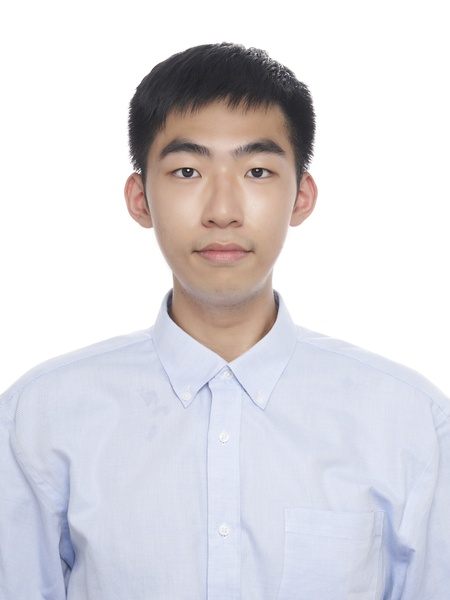
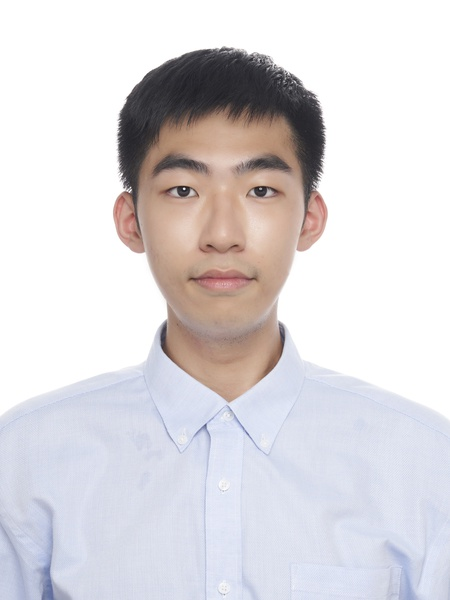
the fourth version

diff --git a/picutre03/picture_modfied.py b/picutre03/picture_modfied.py
@@ -1,11 +1,11 @@
 from PIL import Image
 
 # === 1. 開啟影像 ===
-img = Image.open(r"D:\Users\wedke\document\extra document\大三上\113專題研究之製作\論文人生\紅外線\red_coding main\picutre02\test03.jpg")
+img = Image.open(r"D:\Users\wedke\document\extra document\大三上\113專題研究之製作\論文人生\紅外線\red_coding main\picutre03\test03.jpg")
 
 # === 2. 設定基本參數 ===
 target_ratio = 2.0 / 1.5  # 高寬比 (1.33:1)
-min_w, min_h = 450, 600   # 最小像素
+min_w, min_h = 400, 500   # 最小像素
 dpi_setting = (500, 500)  # DPI 設為 300，可改 500
 
 # === 3. 調整比例 (裁切為 1.33:1) ===
@@ -25,7 +25,7 @@ elif current_ratio < target_ratio:
 
 # === 4. 調整大小 (至少 450×600 像素) ===
 # 以 450×600 為基準放大或縮小
-target_size = (450, 600)
+target_size = (400, 500)
 img = img.resize(target_size, Image.LANCZOS)
 
 # === 5. 若要灰階或彩色，可切換模式 ===
